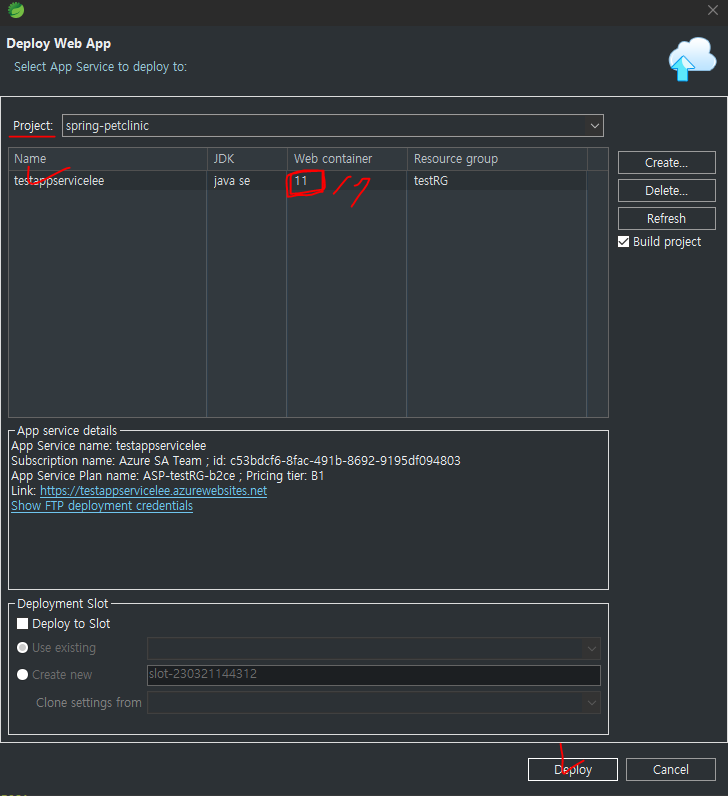
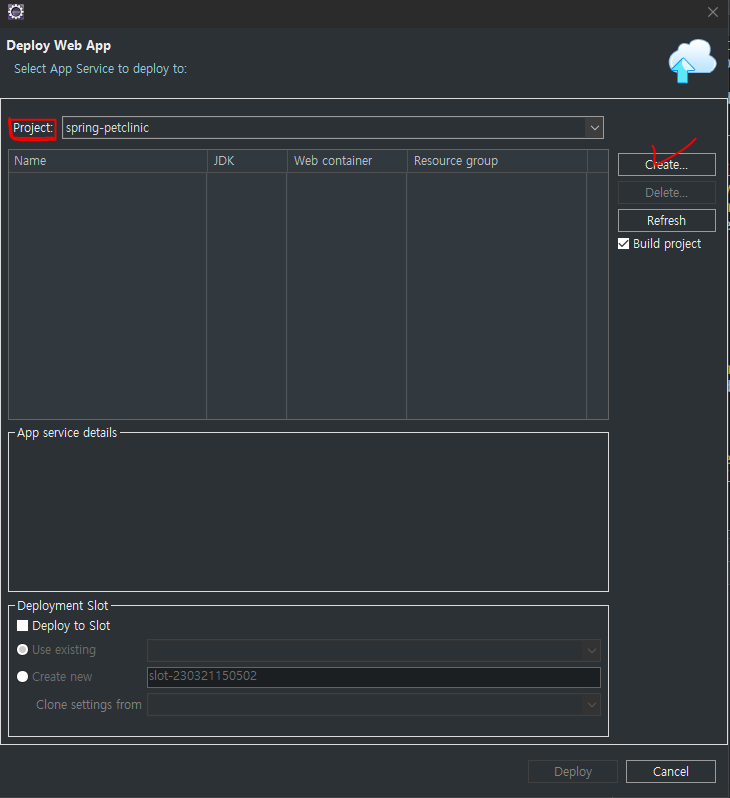
add post

diff --git a/_posts/Category/Azure/2023-03-21-Azure 14.md b/_posts/Category/Azure/2023-03-21-Azure 14.md
@@ -64,6 +64,13 @@ category: [Azure]
 ![img](/assets/category/Azure/2023/03/21/15.PNG)<br>
 ![img](/assets/category/Azure/2023/03/21/16.PNG)<br><br>
 
-15. 배포 대상 project 선택 후 Deploy
-    * Spring Boot 3.0 버전 이후는 JDK 버전 17로 배포 진행
+15. 배포 대상 project 선택 후 Create
 ![img](/assets/category/Azure/2023/03/21/17.PNG)<br>
+
+16. Create App Service
+    * Spring Boot 3.0 버전 이후는 JDK 버전 17로 배포 진행
+![img](/assets/category/Azure/2023/03/21/18.PNG)<br>
+![img](/assets/category/Azure/2023/03/21/19.PNG)<br><br>
+
+17. Deploy Web App, Deploy클릭시 Spring Boot 배포 진행
+![img](/assets/category/Azure/2023/03/21/20.PNG)<br><br>
